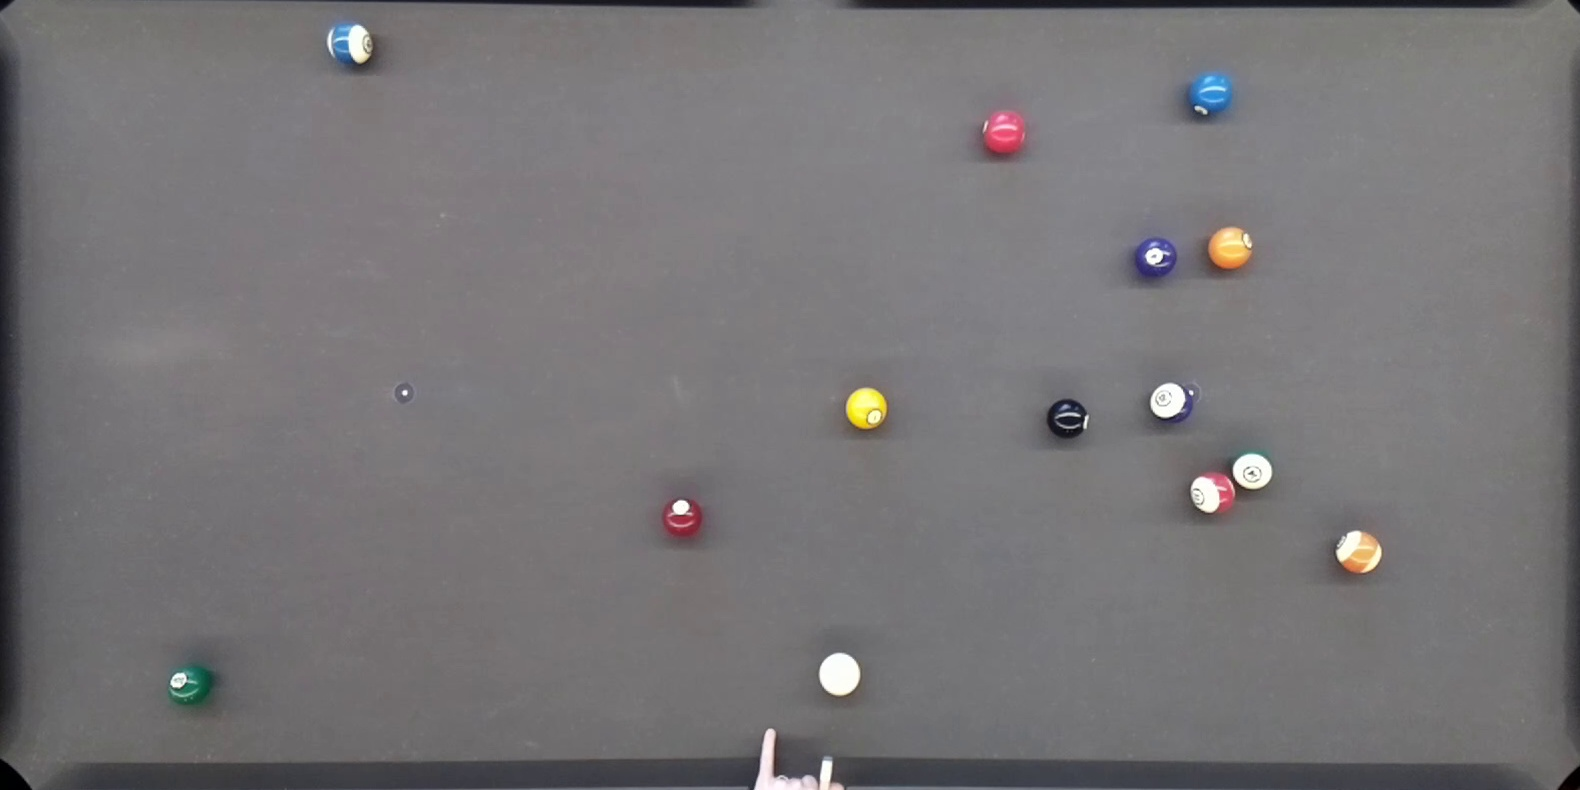
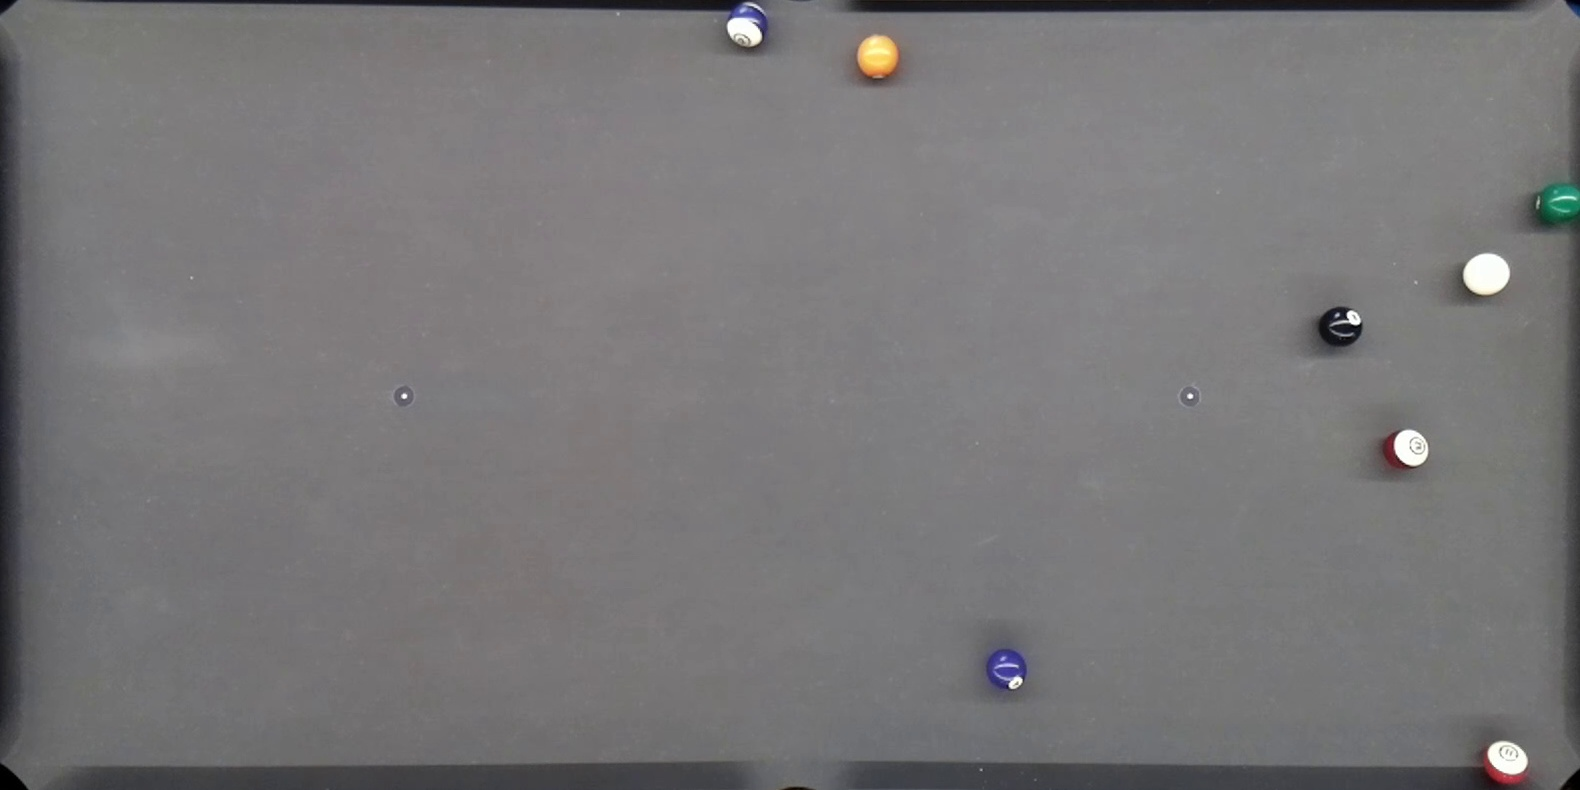
new classify

diff --git a/classify.py b/classify.py
@@ -117,53 +117,10 @@ for ball in balls:
 
   names.append(labels[index])
   interesting_count += 1
-"""
-  maxnum = predictions[0][0]
-  index = 0
-  for i in range(1, 17):
-      if maxnum < predictions[0][i]:
-        maxnum = predictions[0][i]
-        index = i
 
-  if index == 0:
-    names.append('blacksolid')
-  elif index == 1:
-    names.append('bluesolid')
-  elif index == 2:
-    names.append('bluestripe')
-  elif index == 3:
-    names.append('greensolid')
-  elif index == 4:
-    names.append('greenstripe')
-  elif index == 5:
-    names.append('neither')
-  elif index == 6:
-    names.append('orangesolid')
-  elif index == 7:
-    names.append('orangestripe')
-  elif index == 8:
-    names.append('pinksolid')
-  elif index == 9:
-    names.append('pinkstripe')
-  elif index == 10:
-    names.append('purplesolid')
-  elif index == 11:
-    names.append('purplestripe')
-  elif index == 12:
-    names.append('redsolid')
-  elif index == 13:
-    names.append('redstripe')
-  elif index == 14:
-    names.append('white')
-  elif index == 15:
-    names.append('yellowsolid')
-  else:
-    names.append('yellowstripe')
-    """
-
-f = open("../memes/where_balls_transform%d.txt" % 0,"w")
-f.write(str(where_balls))
-f.close()
+# f = open("../memes/where_balls_transform%d.txt" % 0,"w")
+# f.write(str(where_balls))
+# f.close()
 
 # todo: change coordinates in small 16 square to big square
 # todo: from total list of balls given by thresholder, annotate raw images

diff --git a/thresholder.py b/thresholder.py
@@ -17,6 +17,7 @@ def lovelyplot(arr, name, bsq):
     plt.savefig("../memes/" + name + str(bsq), vmin=0, vmax=1)
     plt.show()
 
+"""
 def annotatePlot(arr, name, where_balls):
     plt.imshow(arr.transpose()+1-1, vmin=0, vmax=1)
     plt.colorbar()
@@ -33,6 +34,7 @@ def annotatePlot(arr, name, where_balls):
         plt.title("solidswithlabels")
         plt.savefig("../memes/solidswithlabels", vmin=0, vmax=1)
     plt.show()
+"""
 
 def uglyplot(arr, name, bsq):
         plt.imshow(arr+1-1, vmin=0, vmax=1)
@@ -119,5 +121,5 @@ def personalspace(heatmap,thresh):
         # print(maxprob)
         # plt.imshow(bustmap)
         # plt.show()
-    balls = list(map(lambda ball: (ball[1]-r,ball[r]-2), balls)) # flipped?
+    balls = list(map(lambda ball: (ball[1]-r,ball[0]-r), balls)) # flipped?
     return balls
